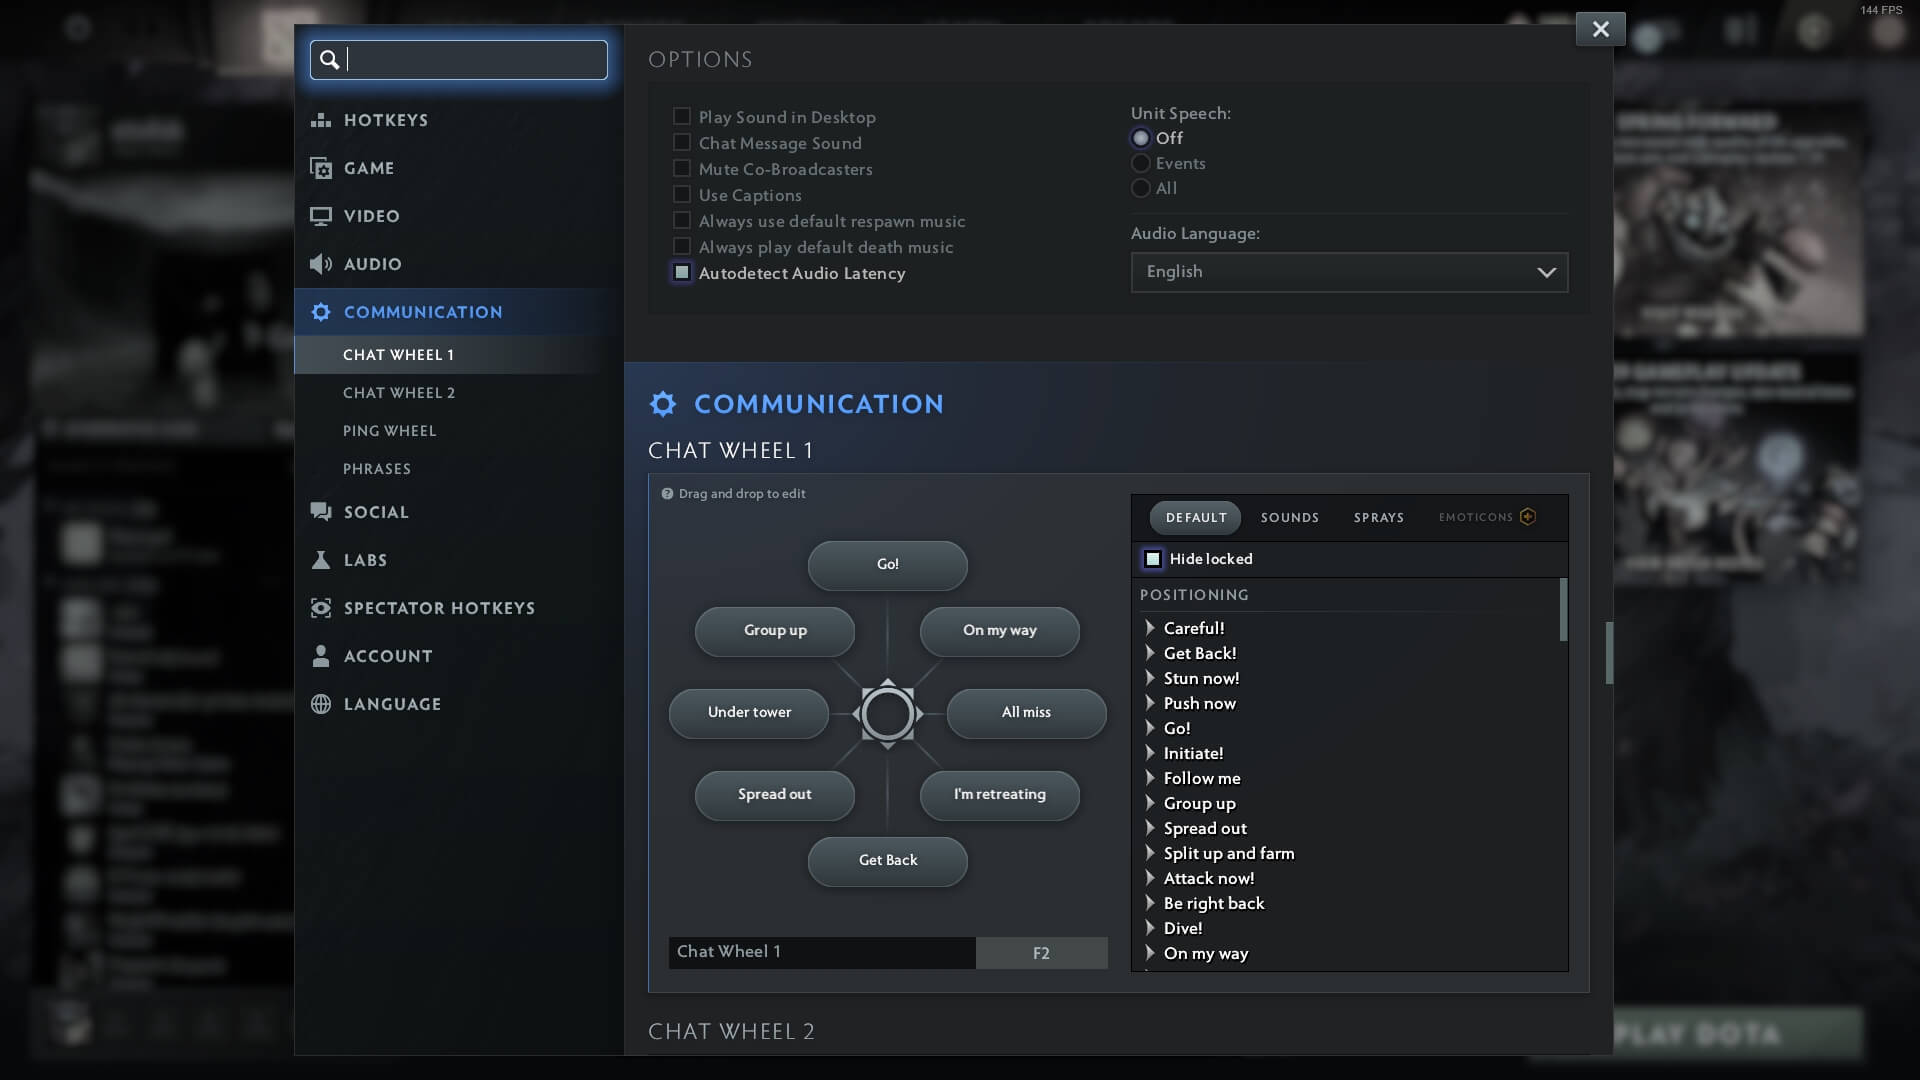
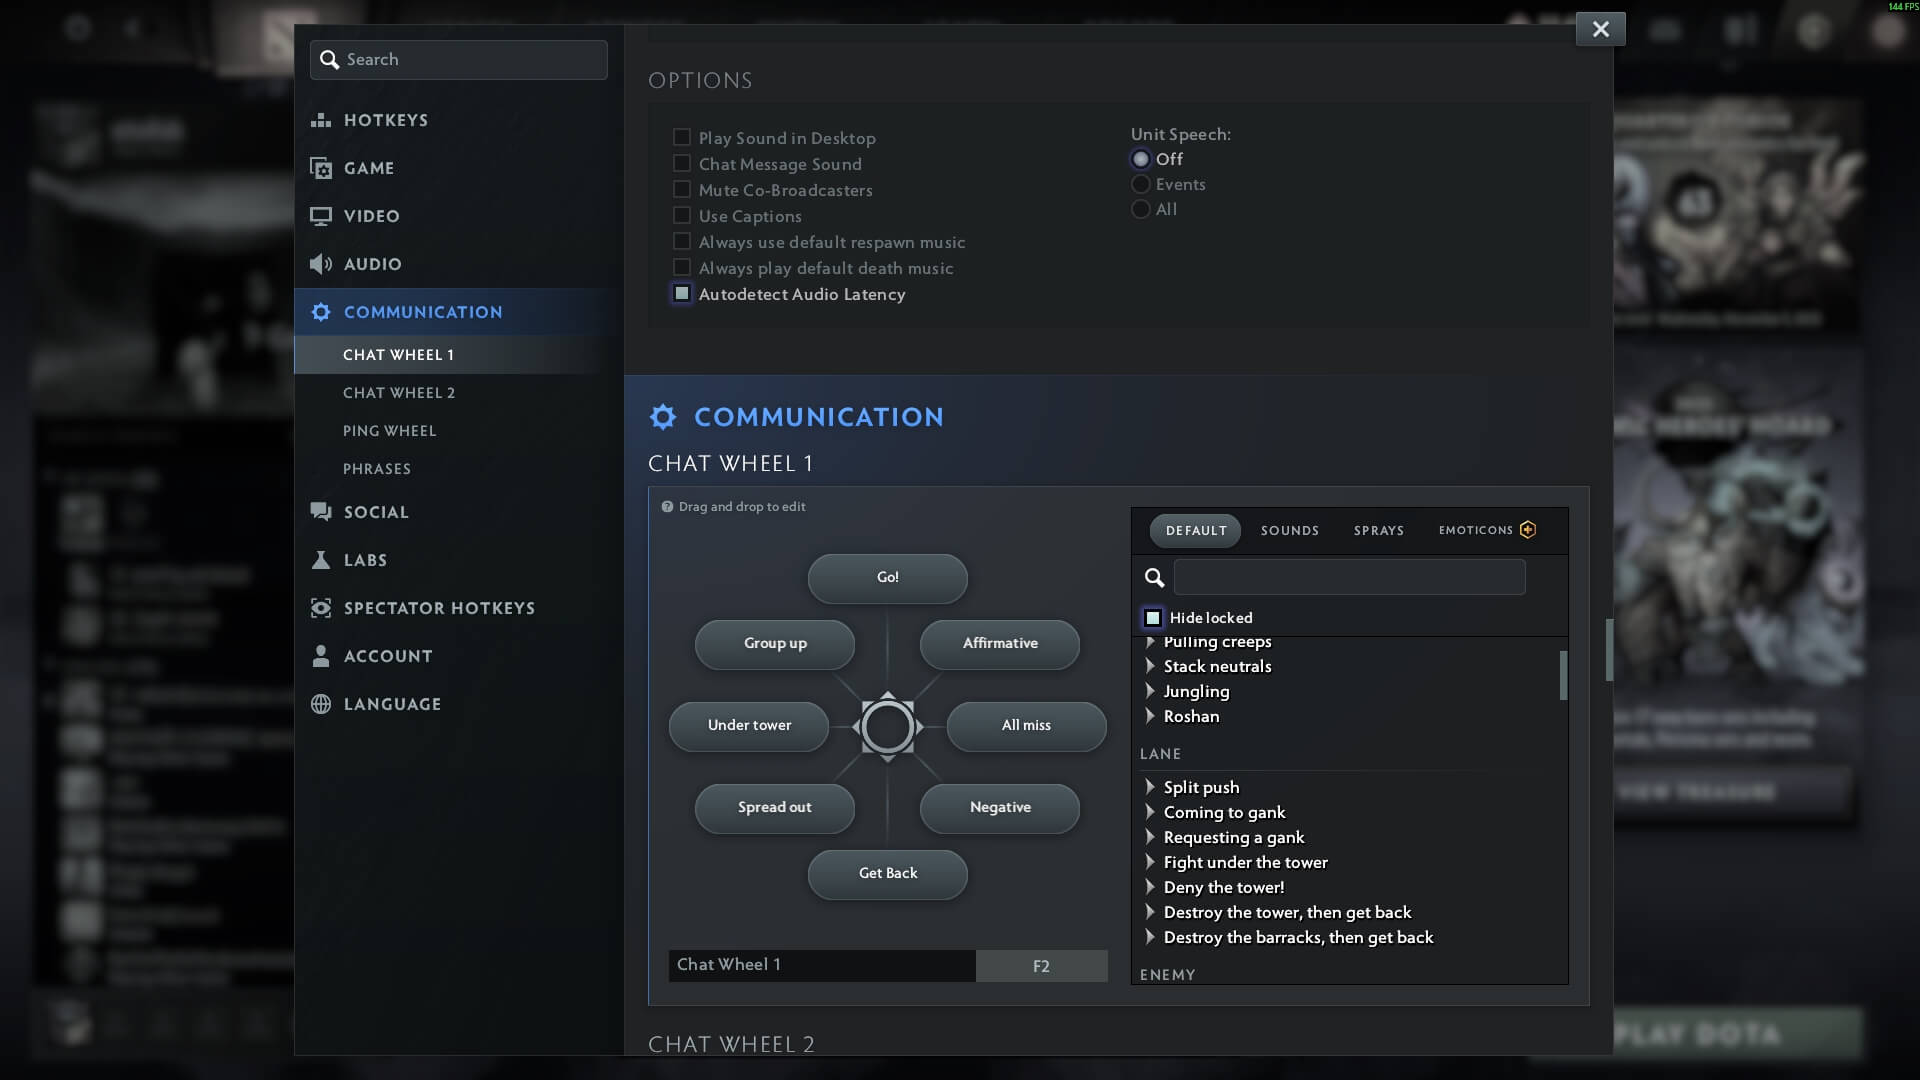
.

diff --git a/web/html/section-19-chat-wheel.html b/web/html/section-19-chat-wheel.html
@@ -19,7 +19,7 @@
 
       <ul>
         <li><b>Chat Wheel 1:</b> <kbd>F2</kbd></li>
-        <li><b>Chat Wheel 2:</b> <kbd>F2</kbd>+<kbd>Alt</kbd></li>
+        <li><b>Chat Wheel 2:</b> <kbd>F3</kbd> <— or —> <kbd>F2</kbd>+<kbd>Alt</kbd></li>
       </ul>
 
     </div>
@@ -47,20 +47,43 @@
       </p>
 
       <p class="mt2">
-        It's actually crazy how much it makes sense.
+        It just makes sense.
       </p>
 
       <p class="separator mt2"></p>
 
       <p class="mt2">
-        <act>Go</act> and <act>Get Back</act> are obvious. Required for any coordination.
+        <act>Go</act> and <act>Get Back</act> are obvious.<br>
+        Required for any coordination.<br>
       </p>
      
       <p class="separator mt2"></p>
 
       <p class="mt2">
+        <act>Affirmative</act> — I like this one a lot because it adds to team spirit.<br>
+        It allows you to <i>visibly</i> agree with a call, giving you a free “chemistry” boost with your teammate.<br><br>
+        Now, consider this: <br>
+        people are herd animals.<br><br>
+        When they see two players agreeing on a call, they become much more likely to follow along.<br>
+        So this phrase "double dips" into the "we are a team" vibe, which - in my opinion - is important.
+      </p>
+
+      <p class="mt2">
+        This works even better if you’re playing with a friend, because you can <act>Affirmative</act> each other’s calls and rally the rest of the team that way.
+      </p>
+
+      <p class="separator mt2"></p>
+
+      <p class="mt2">
+        <act>Negative</act> — currently experimenting with this one.<br>
+        It’s there so you can let your team know you’re not participating.<br><br>
+        But does it make you win more? I'm not sure yet.
+      </p>
+
+      <p class="separator mt2"></p>
+
+      <p class="mt2">
         <act>Fight Under Tower</act> probably contributes to half of my MMR.<br>
-        Synergizes perfectly well with every other call-out.
       </p>
       
       <p class="mt2">
@@ -68,14 +91,13 @@
       </p>
 
       <p class="mt2">
-        Prepares the team for action.<br>
-        Reminds them not to dive.<br>
-        Reminds them not to chase off your own high-ground.
+        - Prepares the team for action.<br>
+        - Reminds them not to dive.<br>
+        - Reminds them not to chase off your own high-ground.
       </p>
 
       <p class="mt2">
-        It's the best.<br>
-        Treat everyone like they have a 3 second memory.
+        It's the best.
       </p>
 
       <p class="separator mt2"></p>
@@ -87,61 +109,38 @@
       <p class="mt2">
         Generally useful around objectives, especially high-ground.
       </p>
-      
-      <p class="mt2">
-        When used with <act>Get Back</act> or <act>I'm retreating</act> works as the "<b>Please Disperse</b>" call-out to forfeit an objective, so that everyone is free to push out lanes or get extra farm.
-      </p>
-     
+
       <p class="separator mt2"></p>
 
       <p class="mt2">
         <act>Group Up</act> serves as the "<b>Get Ready</b>" and "<b>Let's Go</b>" call-outs.<br>
-        It's also useful when you actually want to group up, i.e. for <span class="nowrap"><spell>Guardian Greaves</spell><img class="heroicon" src="assets/images/itemicon/greaves.jpg" alt=""></span> or <span class="nowrap"><spell>Smokes</spell><img class="heroicon" src="assets/images/itemicon/smoke.jpg" alt=""></span>
+        It's also useful when you actually want to group up, i.e. for <span class="nowrap"><spell>Smokes</spell><img class="heroicon" src="assets/images/itemicon/smoke.jpg" alt=""></span>
       </p>      
 
       <p class="separator mt2"></p>
 
       <p class="mt2">
-        <act>On my way</act> indicates our intent <b>to join</b>.<br>
-        It serves as "<b>Wait for me</b>" and "<b>I'm not there yet</b>" at the same time.
+        <act>All miss</act> is a fantastic call-out for "<b>They are smoked</b><img class="heroicon" src="assets/images/itemicon/smoke.jpg" alt="">", "<b>They are ganking</b>", "<b>Watch the minimap</b>" and "<b>Careful</b>."<br><br>
+        I use it all the time when I don't see anyone of the minimap.<br>
+        I use it even as a morale booster after a team wipe.<br><br>
+        It's great!
       </p>
 
       <p class="mt2">
-        <act>I'm retreating</act> indicates our intent <b>not to join</b>.
-      </p>
-
-      <p class="mt2">
-        These are great call-outs, because they lower the chance of our team overextending.<br>
-        The team needs to know whether they can rely on <b>us</b> to make better decisions.
+        Use <act>All miss</act> with <act>Fight under tower</act>, <act>Get back</act> and <act>Group Up</act> to bring your team into safety.
       </p>
 
       <p class="separator mt2"></p>
 
       <p class="mt2">
-        <act>All miss</act> is a great call-out for "<b>They are smoked</b><img class="heroicon" src="assets/images/itemicon/smoke.jpg" alt="">", "<b>They are ganking</b>", "<b>Watch the minimap</b>" and "<b>Careful</b>."
-      </p>
-
-      <p class="mt2">
-        Use with <act>Fight under tower</act>, <act>Get back</act> and <act>Group Up</act> to bring your team into safety.
-      </p>
-
-      <p class="separator mt2"></p>
-
-      <p class="mt2">
-        <b>In order of importance:</b><br><br>
+        <b>In order of importance (for me):</b><br><br>
         1. <act>Go</act> and <act>Get Back</act><br>
         2. <act>All miss</act><br>
         3. <act>Fight Under Tower</act><br>
-        4. <act>Group Up</act><br>
-        5. <act>Spread Out</act><br>
-        6. <act>On my way</act>, <act>I'm retreating</act> <span class="smaller"></span>
-      </p>
-
-      <p class="mt2">
-        In reality I barely use <act>On my way</act> and <act>I'm retreating</act>.<br>
-        Who cares?<br><br>
-        I swapped to <act>Space Created</act> instead.<br>
-        It's fun.
+        4. <act>Affirmative</act><br>
+        5. <act>Group Up</act><br>
+        6. <act>Spread Out</act><br>
+        7. <act>Negative</act>
       </p>
 
     </div>   
@@ -152,8 +151,26 @@
       <h2>Chat Wheel 2 Setup</h2>
         
       <p>
-        Exclusively flavor and emotions sink.<br>
-        Use whatever you like.
+        The Emotions Sink wheel.<br>
+      </p>
+    
+      <p class="mt2">
+        I really find these two VERY valuable:<br>
+        <act>Nice</act><br>
+        <act>Space Created</act>
+      </p>
+    
+      <p class="mt2">
+        I use <act>Nice</act> whenever something good happens.<br>
+        By "good" I mean "in our favor".<br>
+        This acts as a positive reinforcenment => "good job", "well done", "we're cooking", etc.<br>
+        It affects the morale of the team in a positive way.
+      </p>
+    
+      <p class="mt2">
+        I use <act>Space Created</act> when something bad happens.<br>
+        By "bad" I mean "not in our favor".<br>
+        This phrase is somewhat funny, so it diffuses some of the negativity that builds up.<br>
       </p>
     
       <img class="" src="assets/images/options/options-chat-wheel-full-02.jpg" alt=""> 
